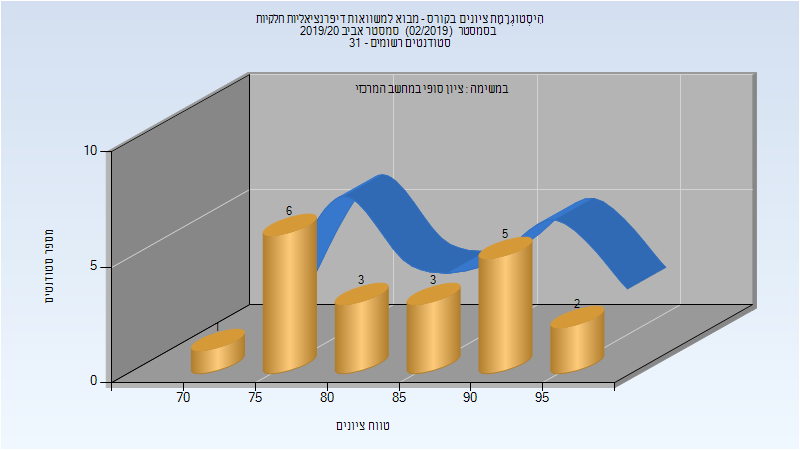
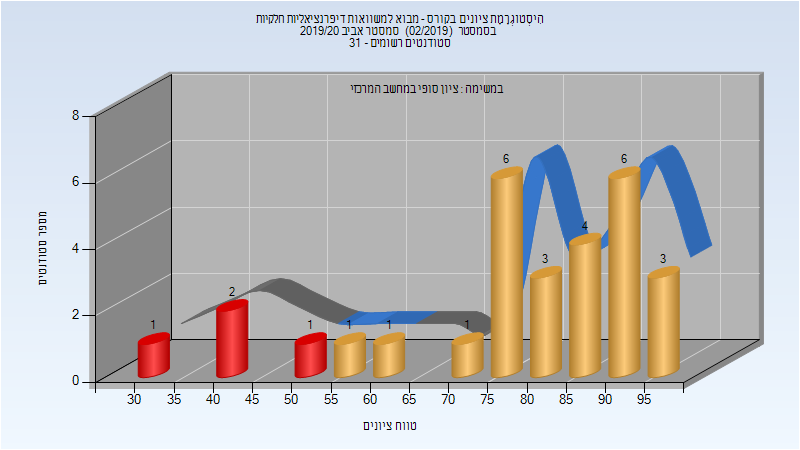
Deploy michael-maltsev/technion-histograms to github.com/michael-maltsev/technion-histograms.git:gh-pages

diff --git a/044252/index.html b/044252/index.html
@@ -847,5 +847,28 @@
 </tr>
 </tbody>
 </table>
+<h2>קיץ 2020</h2>
+<table>
+<thead>
+<tr>
+<th>איש סגל</th>
+<th>תפקיד</th>
+</tr>
+</thead>
+<tbody>
+<tr>
+<td>קוטינסקי שחר</td>
+<td>מרצה - אחראי מקצוע</td>
+</tr>
+<tr>
+<td>אליהו עדי</td>
+<td>מתרגל - עם הרשאות מרצה אחראי</td>
+</tr>
+<tr>
+<td>הדר אלעד</td>
+<td>מתרגל - עם הרשאות מרצה אחראי</td>
+</tr>
+</tbody>
+</table>
   </body>
 </html>

diff --git a/104030/index.html b/104030/index.html
@@ -298,13 +298,13 @@
 </thead>
 <tbody>
 <tr>
-<td>20</td>
-<td>20/0</td>
-<td>100</td>
-<td>70</td>
+<td>29</td>
+<td>25/4</td>
+<td>86</td>
+<td>33</td>
 <td>98</td>
-<td>84.05</td>
-<td>84.5</td>
+<td>77.31</td>
+<td>82</td>
 </tr>
 </tbody>
 </table>

diff --git a/044252/README.md b/044252/README.md
@@ -259,3 +259,11 @@
 | ---- | ---- | ---- | ---- | ---- | ---- | ---- |
 | 510 | 404/106 | 79 | 25 | 100 | 72.437 | 78 |
 
+## קיץ 2020
+
+| איש סגל | תפקיד |
+| ---- | ---- |
+| קוטינסקי שחר | מרצה - אחראי מקצוע |
+| אליהו עדי | מתרגל - עם הרשאות מרצה אחראי |
+| הדר אלעד | מתרגל - עם הרשאות מרצה אחראי |
+

diff --git a/104030/README.md b/104030/README.md
@@ -90,5 +90,5 @@
 
 | סטודנטים | עברו/נכשלו | אחוז עוברים | ציון מינימלי | ציון מקסימלי | ממוצע | חציון |
 | ---- | ---- | ---- | ---- | ---- | ---- | ---- |
-| 20 | 20/0 | 100 | 70 | 98 | 84.05 | 84.5 |
+| 29 | 25/4 | 86 | 33 | 98 | 77.31 | 82 |
 
